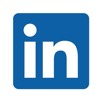
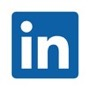
修改icon布局

diff --git a/index.html b/index.html
@@ -30,7 +30,7 @@
 	<title>home | Bingcheng HU 胡炳城 's personal website</title>
 
 	<!-- Latest compiled and minified CSS -->
-	<link rel="stylesheet" type="text/css" media="all" href="rw_common/themes/Voyager/consolidated-0.css?rwcache=622554514" />
+	<link rel="stylesheet" type="text/css" media="all" href="rw_common/themes/Voyager/consolidated-0.css?rwcache=622555552" />
 		
 
   <!-- Main Theme Stylesheet -->
@@ -46,8 +46,8 @@
 	
 
 	<!-- Plugin injected code -->
-			<link rel='stylesheet' type='text/css' media='all' href='rw_common/plugins/stacks/stacks.css?rwcache=622554514' />
-		<link rel='stylesheet' type='text/css' media='all' href='index_files/stacks_page_page0.css?rwcache=622554514' />
+			<link rel='stylesheet' type='text/css' media='all' href='rw_common/plugins/stacks/stacks.css?rwcache=622555552' />
+		<link rel='stylesheet' type='text/css' media='all' href='index_files/stacks_page_page0.css?rwcache=622555552' />
         
         
         
@@ -260,22 +260,26 @@
 </div>
 
 
-</div></div><div id='stacks_out_12_page0' class='stacks_out'><div id='stacks_in_12_page0' class='stacks_in grid_stack'><div class='stacks_div stacks_row'><div class='stacks_div stacks_left'><div id='stacks_out_21_page0' class='stacks_out'><div id='stacks_in_21_page0' class='stacks_in image_stack'>
+</div></div><div id='stacks_out_29_page0' class='stacks_out'><div id='stacks_in_29_page0' class='stacks_in com_yourhead_stacks_three_columns_stack'><div class='s3_row'>
+	<div class='s3_column s3_column_left'><div id='stacks_out_21_page0' class='stacks_out'><div id='stacks_in_21_page0' class='stacks_in image_stack'>
 <div class='centered_image' >
-    <a href="https://www.linkedin.com/in/jupyter98" target="_blank"><img class='imageStyle' src='index_files/linkedin-----bingcheng-hu.jpg' alt='Stacks Image 22'  srcset='index_files/linkedin-----bingcheng-hu.jpg 1x, index_files/linkedin-----bingcheng-hu@2x.jpg 2x' /></a>
+    <a href="https://www.linkedin.com/in/jupyter98" target="_blank"><img class='imageStyle' src='index_files/linkedin-----bingcheng-hu.jpg' alt='Stacks Image 22' /></a>
 </div>
 
-</div></div></div><div class='stacks_div stacks_left'><div id='stacks_out_25_page0' class='stacks_out'><div id='stacks_in_25_page0' class='stacks_in image_stack'>
+</div></div></div>
+	<div class='s3_column s3_column_center'><div id='stacks_out_25_page0' class='stacks_out'><div id='stacks_in_25_page0' class='stacks_in image_stack'>
 <div class='centered_image' >
     <a href="https://github.com/bingcheng1998" target="_blank"><img class='imageStyle' src='index_files/stacks-image-f6db957-26.jpg' alt='Stacks Image 26'  srcset='index_files/stacks-image-f6db957-26.jpg 1x, index_files/stacks-image-f6db957-26@2x.jpg 2x' /></a>
 </div>
 
-</div></div></div><div class='stacks_div stacks_left'><div id='stacks_out_27_page0' class='stacks_out'><div id='stacks_in_27_page0' class='stacks_in image_stack'>
+</div></div></div>
+	<div class='s3_column s3_column_right'><div id='stacks_out_27_page0' class='stacks_out'><div id='stacks_in_27_page0' class='stacks_in image_stack'>
 <div class='centered_image' >
     <a href="https://www.facebook.com/bingcheng1998" target="_blank"><img class='imageStyle' src='index_files/stacks-image-fc1e8c2-28.jpg' alt='Stacks Image 28' /></a>
 </div>
 
-</div></div></div></div></div></div></div></div>
+</div></div></div>
+</div></div></div></div></div>
 
 					<div class="clearer"></div>
 				</div>
@@ -301,16 +305,16 @@
 	</div>
 
 	<!-- jQuery 1.8 is included in the theme internally -->
-  <script src="rw_common/themes/Voyager/js/jquery.min.js?rwcache=622554514"></script>
+  <script src="rw_common/themes/Voyager/js/jquery.min.js?rwcache=622555552"></script>
 
 	<!-- Base RapidWeaver javascript -->
-	<script async type="text/javascript" src="rw_common/themes/Voyager/javascript.js?rwcache=622554514"></script>
+	<script async type="text/javascript" src="rw_common/themes/Voyager/javascript.js?rwcache=622555552"></script>
 
   <!-- Elixir theme specific javascript, along with jQuery Easing and a few other elements -->
-  <script src="rw_common/themes/Voyager/js/elixir.js?rwcache=622554514"></script>
+  <script src="rw_common/themes/Voyager/js/elixir.js?rwcache=622555552"></script>
 
 	<!-- Style variations -->
-	<script src="rw_common/themes/Voyager/js/sidebar/sidebar_right.js?rwcache=622554514"></script>
+	<script src="rw_common/themes/Voyager/js/sidebar/sidebar_right.js?rwcache=622555552"></script>
 		
 
 	<!-- User defined javascript -->

diff --git a/index_files/stacks_page_page0.css b/index_files/stacks_page_page0.css
@@ -530,19 +530,54 @@
     #card-stacks_in_10_page0 .card-inner .card-caption {
       font-size: 24px;
       line-height: 34px; } }
-
-.stacks_left {
-	float:left;
+#stacks_in_29_page0>.s3_row {
+	margin: 0 -10px;
 }
 
-.stacks_row {
-	overflow:hidden;
-	margin:0 auto;
-}
-#stacks_in_12_page0 .stacks_left {
-	width:200px;
+#stacks_in_29_page0>.s3_row>.s3_column_left {
+	width: 33.33%;
 }
 
-#stacks_in_12_page0 .stacks_row {
-	width:600px;
+#stacks_in_29_page0>.s3_row>.s3_column_center {
+	width: 33.339996%;
 }
+
+#stacks_in_29_page0>.s3_row>.s3_column_right {
+	width: 33.33%;
+}
+
+#stacks_in_29_page0>.s3_row>.s3_column {
+	padding: 0 10px;
+}
+
+
+
+
+
+
+
+
+@media only screen and (max-width: 770px) {
+
+
+
+}
+
+
+
+@media only screen and (max-width: 400px) {
+
+
+	#stacks_in_29_page0>.s3_row  {
+		margin: -10px 0;
+	}
+	#stacks_in_29_page0>.s3_row>.s3_column {
+		padding: 10px 0;
+		width:100%;
+	}
+
+
+}
+
+
+

diff --git a/rw_common/plugins/stacks/stacks.css b/rw_common/plugins/stacks/stacks.css
@@ -160,19 +160,3 @@
 
 
 
-
-
-
-
-
-
-
-
-
-
-
-
-
-
-
-
